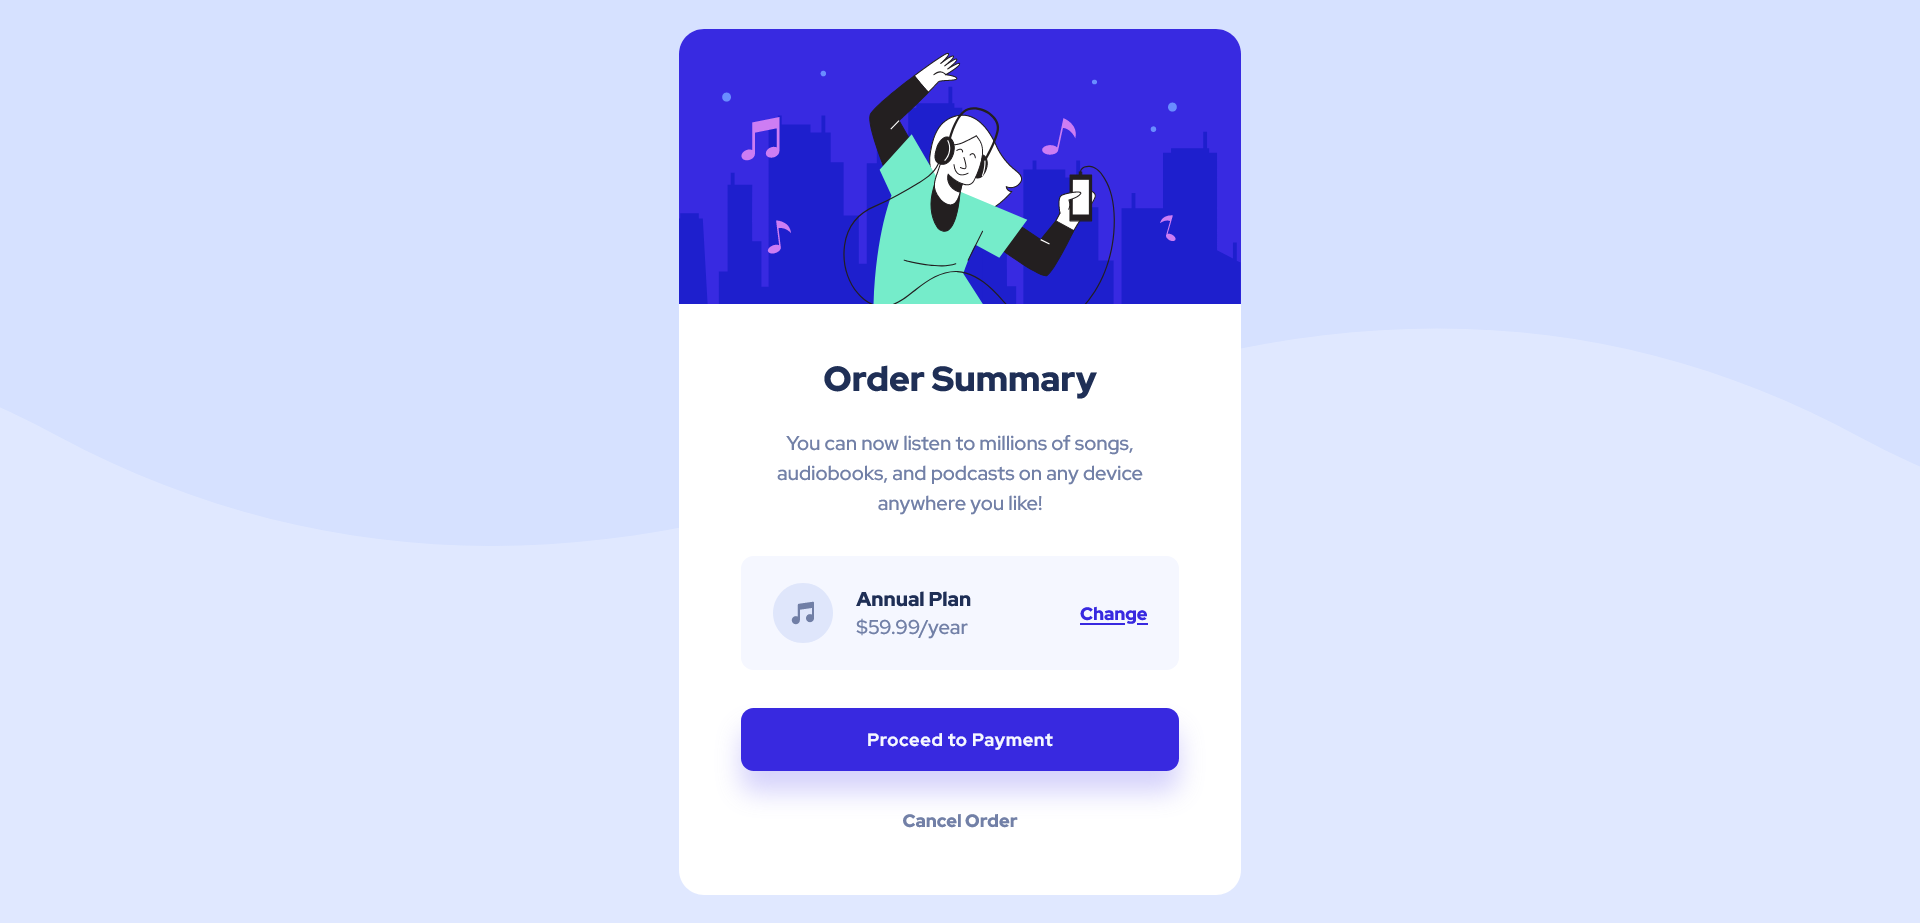
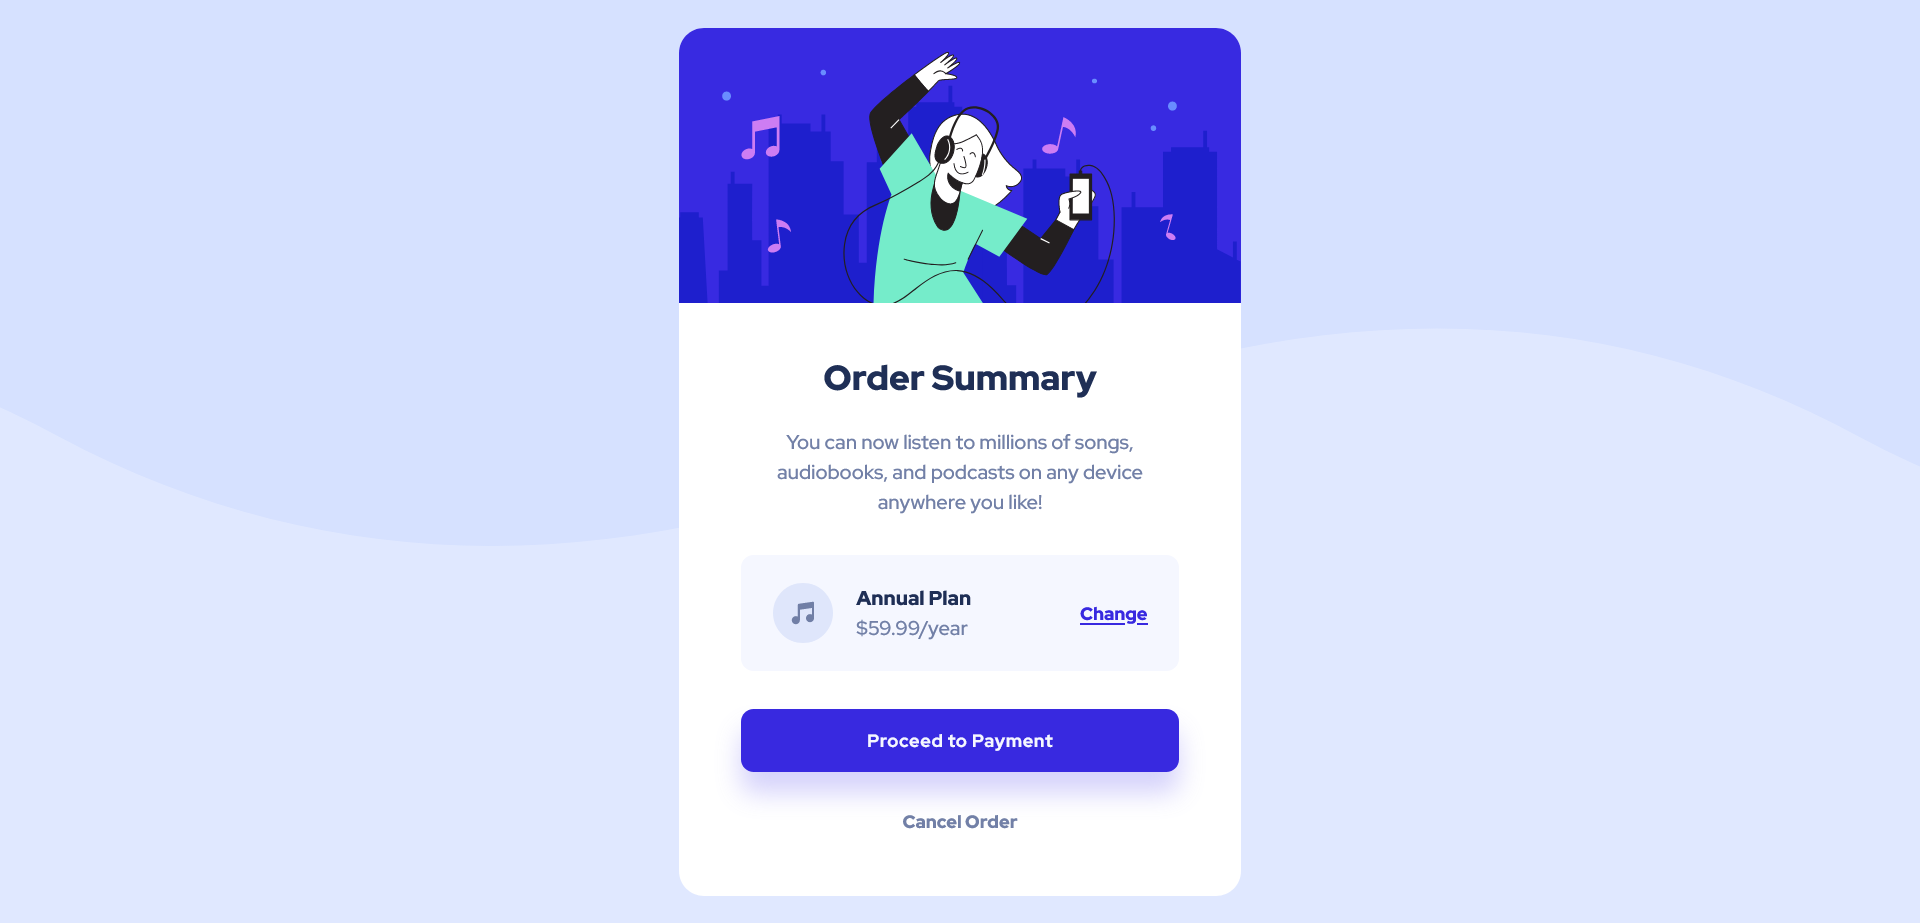
tiny css fix

diff --git a/css/style.css b/css/style.css
@@ -137,6 +137,9 @@ body {
         font-size: 100%;
         background-position: 25px center;
     }
+    .order-summary .h {
+        margin-bottom: 5px;
+    }
     .order-summary .offer a {
         font-size: 90%;
     }
